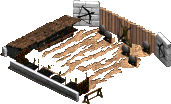
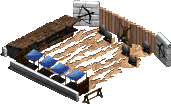
Added player-color layer for all building sprites. Fixed bad pixels within Dock and Town Center sprites. Adjusted offsets of some sprites.

diff --git a/src/engine/buildings/dock.js b/src/engine/buildings/dock.js
@@ -100,7 +100,7 @@ Dock.prototype.IMAGE_OFFSETS = {
         [{ x: -21, y: 36 }, { x: -21, y: 36 }, { x: -21, y: 36 }, { x: -21, y: 36 }]
     ],
     [Building.prototype.STATE.DONE]: [
-        [{ x: -22, y: 36 }, { x: -22, y: 36 }, { x: 11, y: 45 }, { x: 3, y: 55 }]
+        [{ x: -22, y: 36 }, { x: -22, y: 36 }, { x: 11, y: 45 }, { x: 3, y: 79 }]
     ]
 }
 

diff --git a/src/engine/buildings/house.js b/src/engine/buildings/house.js
@@ -88,7 +88,7 @@ House.prototype.IMAGE_OFFSETS = {
         [{ x: -2, y: 30 }, { x: -2, y: 30 }, { x: -2, y: 30 }, { x: -2, y: 30 }]
     ],
     [Building.prototype.STATE.DONE]: [
-        [{ x: -9, y: 25 }, { x: -19, y: 47 }, { x: -7, y: 43 }, { x: 10, y: 51 }]
+        [{ x: -9, y: 25 }, { x: -13, y: 45 }, { x: -7, y: 43 }, { x: 10, y: 51 }]
     ]
 }
 
